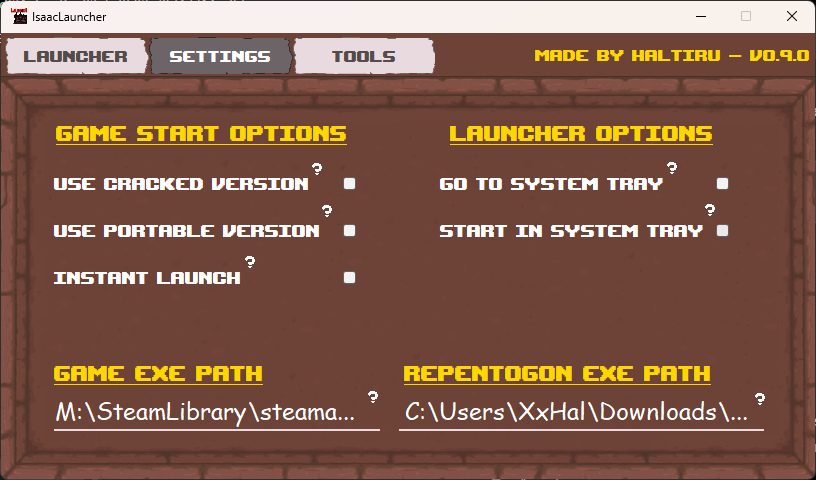
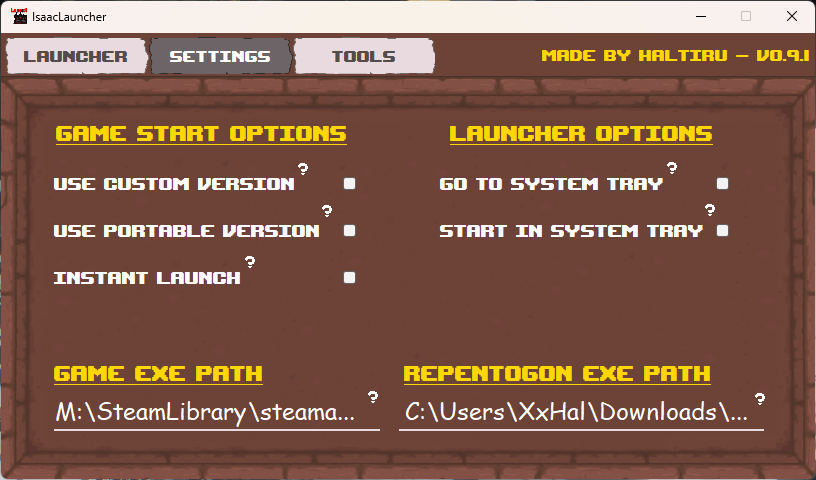
Renamed Cracket to Custom everywhere

diff --git a/IsaacLauncherGUI/Forms/Form1.Designer.cs b/IsaacLauncherGUI/Forms/Form1.Designer.cs
@@ -74,7 +74,7 @@
             this.systemTrayToolTip = new System.Windows.Forms.PictureBox();
             this.instantLaunchToolTip = new System.Windows.Forms.PictureBox();
             this.portableToolTip = new System.Windows.Forms.PictureBox();
-            this.crackedToolTip = new System.Windows.Forms.PictureBox();
+            this.customToolTip = new System.Windows.Forms.PictureBox();
             this.startTray = new System.Windows.Forms.CheckBox();
             this.trayBox = new System.Windows.Forms.CheckBox();
             this.label8 = new System.Windows.Forms.Label();
@@ -82,7 +82,7 @@
             this.instantLaunch = new System.Windows.Forms.CheckBox();
             this.label4 = new System.Windows.Forms.Label();
             this.pathLine = new ReaLTaiizor.Controls.Panel();
-            this.cracked = new System.Windows.Forms.CheckBox();
+            this.custom = new System.Windows.Forms.CheckBox();
             this.pathText = new System.Windows.Forms.Label();
             this.toolsPage = new System.Windows.Forms.TabPage();
             this.panel6 = new System.Windows.Forms.Panel();
@@ -113,7 +113,7 @@
             ((System.ComponentModel.ISupportInitialize)(this.systemTrayToolTip)).BeginInit();
             ((System.ComponentModel.ISupportInitialize)(this.instantLaunchToolTip)).BeginInit();
             ((System.ComponentModel.ISupportInitialize)(this.portableToolTip)).BeginInit();
-            ((System.ComponentModel.ISupportInitialize)(this.crackedToolTip)).BeginInit();
+            ((System.ComponentModel.ISupportInitialize)(this.customToolTip)).BeginInit();
             this.toolsPage.SuspendLayout();
             this.panel6.SuspendLayout();
             this.SuspendLayout();
@@ -416,7 +416,7 @@
             this.panel4.Controls.Add(this.systemTrayToolTip);
             this.panel4.Controls.Add(this.instantLaunchToolTip);
             this.panel4.Controls.Add(this.portableToolTip);
-            this.panel4.Controls.Add(this.crackedToolTip);
+            this.panel4.Controls.Add(this.customToolTip);
             this.panel4.Controls.Add(this.startTray);
             this.panel4.Controls.Add(this.trayBox);
             this.panel4.Controls.Add(this.label8);
@@ -424,7 +424,7 @@
             this.panel4.Controls.Add(this.instantLaunch);
             this.panel4.Controls.Add(this.label4);
             this.panel4.Controls.Add(this.pathLine);
-            this.panel4.Controls.Add(this.cracked);
+            this.panel4.Controls.Add(this.custom);
             this.panel4.Controls.Add(this.pathText);
             resources.ApplyResources(this.panel4, "panel4");
             this.panel4.Name = "panel4";
@@ -524,13 +524,13 @@
             this.portableToolTip.Name = "portableToolTip";
             this.portableToolTip.TabStop = false;
             // 
-            // crackedToolTip
+            // customToolTip
             // 
-            this.crackedToolTip.BackgroundImage = global::IsaacLauncherGUI.Properties.Resources.hdsecretroom;
-            resources.ApplyResources(this.crackedToolTip, "crackedToolTip");
-            this.crackedToolTip.Cursor = System.Windows.Forms.Cursors.Default;
-            this.crackedToolTip.Name = "crackedToolTip";
-            this.crackedToolTip.TabStop = false;
+            this.customToolTip.BackgroundImage = global::IsaacLauncherGUI.Properties.Resources.hdsecretroom;
+            resources.ApplyResources(this.customToolTip, "customToolTip");
+            this.customToolTip.Cursor = System.Windows.Forms.Cursors.Default;
+            this.customToolTip.Name = "customToolTip";
+            this.customToolTip.TabStop = false;
             // 
             // startTray
             // 
@@ -589,15 +589,15 @@
             this.pathLine.Name = "pathLine";
             this.pathLine.SmoothingType = System.Drawing.Drawing2D.SmoothingMode.HighQuality;
             // 
-            // cracked
+            // custom
             // 
-            resources.ApplyResources(this.cracked, "cracked");
-            this.cracked.Cursor = System.Windows.Forms.Cursors.Default;
-            this.cracked.FlatAppearance.BorderSize = 100;
-            this.cracked.ForeColor = System.Drawing.Color.White;
-            this.cracked.Name = "cracked";
-            this.cracked.UseVisualStyleBackColor = true;
-            this.cracked.CheckedChanged += new System.EventHandler(this.UseCrackedVersion);
+            resources.ApplyResources(this.custom, "custom");
+            this.custom.Cursor = System.Windows.Forms.Cursors.Default;
+            this.custom.FlatAppearance.BorderSize = 100;
+            this.custom.ForeColor = System.Drawing.Color.White;
+            this.custom.Name = "custom";
+            this.custom.UseVisualStyleBackColor = true;
+            this.custom.CheckedChanged += new System.EventHandler(this.UseCustomVersion);
             // 
             // pathText
             // 
@@ -727,7 +727,7 @@
             ((System.ComponentModel.ISupportInitialize)(this.systemTrayToolTip)).EndInit();
             ((System.ComponentModel.ISupportInitialize)(this.instantLaunchToolTip)).EndInit();
             ((System.ComponentModel.ISupportInitialize)(this.portableToolTip)).EndInit();
-            ((System.ComponentModel.ISupportInitialize)(this.crackedToolTip)).EndInit();
+            ((System.ComponentModel.ISupportInitialize)(this.customToolTip)).EndInit();
             this.toolsPage.ResumeLayout(false);
             this.toolsPage.PerformLayout();
             this.panel6.ResumeLayout(false);
@@ -743,7 +743,7 @@
         private System.Windows.Forms.TabPage settingsPage;
         private System.Windows.Forms.Button launcherButton;
         private System.Windows.Forms.Button playButton;
-        private System.Windows.Forms.CheckBox cracked;
+        private System.Windows.Forms.CheckBox custom;
         private System.Windows.Forms.Label label1;
         private System.Windows.Forms.Button settingsButton;
         private System.Windows.Forms.Panel panel4;
@@ -775,7 +775,7 @@
         private System.Windows.Forms.PictureBox systemTrayToolTip;
         private System.Windows.Forms.PictureBox instantLaunchToolTip;
         private System.Windows.Forms.PictureBox portableToolTip;
-        private System.Windows.Forms.PictureBox crackedToolTip;
+        private System.Windows.Forms.PictureBox customToolTip;
         private System.Windows.Forms.PictureBox ghostModeTooltip;
         private System.Windows.Forms.CheckBox ghost;
         private System.Windows.Forms.Label label9;

diff --git a/IsaacLauncherGUI/Forms/Form1.cs b/IsaacLauncherGUI/Forms/Form1.cs
@@ -94,14 +94,14 @@ private async void StartPortable(object sender, EventArgs e)
 
         public void UpdateUI()
         {
-            // 1. cracked <-> portable kölcsönös kizárás
-            SetCheckBoxEnabled(portable, !cracked.Checked);
-            SetCheckBoxEnabled(cracked, !portable.Checked);
+            // 1. custom <-> portable kölcsönös kizárás
+            SetCheckBoxEnabled(portable, !custom.Checked);
+            SetCheckBoxEnabled(custom, !portable.Checked);
 
             // az előző két sor után az állapotok megváltozhattak, ezért itt olvassuk ki
             bool isSmart = smart.Checked;
             bool isPortable = portable.Checked;
-            bool isSteam = !isPortable && !cracked.Checked;
+            bool isSteam = !isPortable && !custom.Checked;
 
             // 2. mi mit tilt
             //SetCheckBoxEnabled(mods, !isSmart);
@@ -118,10 +118,10 @@ private async void StartPortable(object sender, EventArgs e)
             pathLine.Visible = !isPortable;
             gameExeLabel.Visible = !isPortable;
 
-            //repentogonPathToolTip.Visible = !isPortable && !isCracked;
-            //repentogonExePathLabel.Visible = !isPortable && !isCracked;
-            //repentogonPathText.Visible = !isPortable && !isCracked;
-            //pathLine2.Visible = !isPortable && !isCracked;
+            //repentogonPathToolTip.Visible = !isPortable && !isCustom;
+            //repentogonExePathLabel.Visible = !isPortable && !isCustom;
+            //repentogonPathText.Visible = !isPortable && !isCustom;
+            //pathLine2.Visible = !isPortable && !isCustom;
 
             portableCreate.Enabled = !isPortable;
 
@@ -159,7 +159,7 @@ private async void StartPortable(object sender, EventArgs e)
             _settings.Mods = mods.Checked;
             _settings.SmartStart = smart.Checked;
             _settings.GamePath = pathText.Text;
-            _settings.Cracked = cracked.Checked;
+            _settings.Custom = custom.Checked;
             _settings.Borderless = borderless.Checked;
             _settings.InstantLaunch = instantLaunch.Checked;
             _settings.Portable = portable.Checked;
@@ -179,7 +179,7 @@ private async void StartPortable(object sender, EventArgs e)
             mods.Checked = _settings.Mods;
             smart.Checked = _settings.SmartStart;
             pathText.Text = _settings.GamePath;
-            cracked.Checked = _settings.Cracked;
+            custom.Checked = _settings.Custom;
             borderless.Checked = _settings.Borderless;
             instantLaunch.Checked = _settings.InstantLaunch;
             portable.Checked = _settings.Portable;
@@ -322,7 +322,7 @@ private async void StartPortable(object sender, EventArgs e)
 
         public LaunchMode GetLaunchMode()
         {
-            if (cracked.Checked) return LaunchMode.Cracked;
+            if (custom.Checked) return LaunchMode.Custom;
             else if (portable.Checked) return LaunchMode.Portable;
             else return LaunchMode.Steam;
         }
@@ -443,7 +443,7 @@ private async void StartPortable(object sender, EventArgs e)
 
         private void UsePortableVersionClick(object sender, EventArgs e) { UpdateUI(); }
 
-        private void UseCrackedVersion(object sender, EventArgs e) { UpdateUI(); }
+        private void UseCustomVersion(object sender, EventArgs e) { UpdateUI(); }
         private void BrowseGamePath(object sender, EventArgs e)
         {
             using (CommonOpenFileDialog dialog = new CommonOpenFileDialog())
@@ -605,7 +605,7 @@ private async void StartPortable(object sender, EventArgs e)
             mainToolTip.SetToolTip(modsToolTip, "If checked Isaac is going to start with mods.");
             mainToolTip.SetToolTip(smartStartTooltip, "If checked the launcher will try to start Isaac according to the daily challenge timer. (without mods and repentogon when a new daily is available on the first start)");
             mainToolTip.SetToolTip(borderlessFullscreenTooltip, "If checked Isaac will start in borderless fullscreen mode.");
-            mainToolTip.SetToolTip(crackedToolTip, "If checked the launcher will try to start the cracked version of Isaac.");
+            mainToolTip.SetToolTip(customToolTip, "If checked the launcher will try to start the custom version of Isaac.");
             mainToolTip.SetToolTip(portableToolTip, "If checked the launcher will try to start the portable version of Isaac.");
             mainToolTip.SetToolTip(instantLaunchToolTip, "If checked the launcher will try to start Isaac instantly when starting the app.");
             mainToolTip.SetToolTip(ghostModeTooltip, "If checked the launcher will delete My Games and/or Binding of Isaac Repentance+ folders if they did not exist before. (only works with portable version)");

diff --git a/IsaacLauncherGUI/Classes/Program.cs b/IsaacLauncherGUI/Classes/Program.cs
@@ -13,7 +13,7 @@ namespace IsaacLauncherGUI
 {
     public class Launcher
     {
-        public enum LaunchMode { Steam, Cracked, Portable }
+        public enum LaunchMode { Steam, Custom, Portable }
         public LaunchMode CurrentMode { get; set; }
         public bool AreModsEnabled { get; set; }
         public bool IsRepentogonEnabled { get; set; }
@@ -159,13 +159,14 @@ namespace IsaacLauncherGUI
                         Process.Start(AdminStart);
                     }
                     break;
-                case LaunchMode.Cracked:
-                    ProcessStartInfo AdminStartCracked = new ProcessStartInfo
+                case LaunchMode.Custom:
+                    ProcessStartInfo AdminStartCustom = new ProcessStartInfo
                     {
                         FileName = Path.Combine(GamePath, "isaac-ng.exe"),
+                        WorkingDirectory = GamePath,
                         UseShellExecute = true,
                     };
-                    Process.Start(AdminStartCracked);
+                    Process.Start(AdminStartCustom);
                     break;
                 case LaunchMode.Portable:
                     ProcessStartInfo AdminStartPortable = new ProcessStartInfo

diff --git a/IsaacLauncherGUI/Classes/AppConfig.cs b/IsaacLauncherGUI/Classes/AppConfig.cs
@@ -11,7 +11,7 @@ namespace IsaacLauncherGUI
         public bool Mods { get; set; } = true;
         public bool SmartStart { get; set; } = false;
         public string GamePath { get; set; } = "path to isaac-ng.exe";
-        public bool Cracked { get; set; } = false;
+        public bool Custom { get; set; } = false;
         public bool Borderless { get; set; } = false;
         public string OriginalFullscreen { get; set; } = string.Empty;
         public bool InstantLaunch { get; set; } = false;

diff --git a/IsaacLauncherGUI/Properties/AssemblyInfo.cs b/IsaacLauncherGUI/Properties/AssemblyInfo.cs
@@ -28,5 +28,5 @@ using System.Runtime.InteropServices;
 //      Minor Version
 //      Build Number
 //
-[assembly: AssemblyVersion("0.9.0")]
-[assembly: AssemblyFileVersion("0.9.0")]
+[assembly: AssemblyVersion("0.9.1")]
+[assembly: AssemblyFileVersion("0.9.1")]
